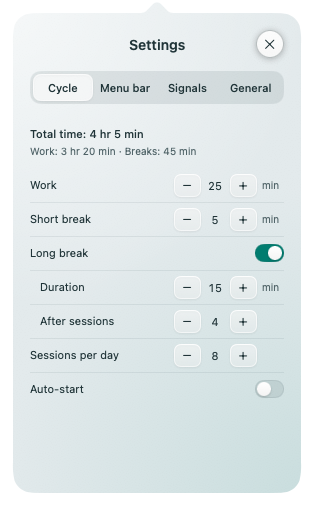
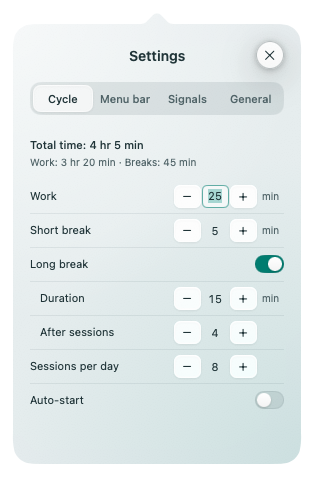
Polish interface colors and refresh compact app screenshots

diff --git a/Sources/PomodoroApp/Views/GlassStyle.swift b/Sources/PomodoroApp/Views/GlassStyle.swift
@@ -3,12 +3,15 @@ import SwiftUI
 
 enum PomodoroStyle {
     static let panelWidth: CGFloat = 288
-    static let panelHeight: CGFloat = 480
+    static let panelHeight: CGFloat = 440
+    static let disabledOpacity = 0.6
     static let accent = adaptive(light: 0x078779, dark: 0x52C2B0)
-    static let accentHighlight = adaptive(light: 0x45A79B, dark: 0x298F83)
-    static let buttonAccent = Color(red: 7 / 255, green: 135 / 255, blue: 121 / 255)
+    // Keep white button labels legible across the entire opaque gradient.
+    static let accentHighlight = adaptive(light: 0x168476, dark: 0x218376)
+    static let buttonAccent = Color(red: 7 / 255, green: 127 / 255, blue: 114 / 255)
     static let ink = adaptive(light: 0x263B40, dark: 0xEDF6F8)
     static let secondary = adaptive(light: 0x5C6E73, dark: 0xB2C4CC)
+    static let error = adaptive(light: 0xA43F3A, dark: 0xF0ACA5)
     static let base = adaptive(light: 0xE8EEF0, dark: 0x24323D)
     static let track = adaptive(light: 0x344E56, dark: 0xE3FAFF).opacity(0.11)
     static let line = adaptive(light: 0x3A535E, dark: 0xE1F6FF).opacity(0.09)
@@ -73,7 +76,7 @@ struct PomodoroButtonStyle: ButtonStyle {
                     .strokeBorder(PomodoroStyle.accent.opacity(isFocused ? 0.8 : 0), lineWidth: 2)
             }
             .contentShape(RoundedRectangle(cornerRadius: radius))
-            .opacity(isEnabled ? 1 : 0.4)
+            .opacity(isEnabled ? 1 : PomodoroStyle.disabledOpacity)
     }
 }
 
@@ -189,7 +192,7 @@ struct GlassSwitchStyle: ToggleStyle {
         }
         .frame(minHeight: 34)
         .foregroundStyle(PomodoroStyle.ink)
-        .opacity(isEnabled ? 1 : 0.4)
+        .opacity(isEnabled ? 1 : PomodoroStyle.disabledOpacity)
         .animation(reduceMotion ? nil : .easeInOut(duration: 0.12), value: configuration.isOn)
     }
 }

diff --git a/Sources/PomodoroApp/Views/SettingsView.swift b/Sources/PomodoroApp/Views/SettingsView.swift
@@ -49,6 +49,7 @@ struct SettingsView: View {
                 Button { selectedTab = tab } label: {
                     Text(t(tab.rawValue))
                         .font(.system(size: 11, weight: .medium))
+                        .foregroundStyle(selectedTab == tab ? PomodoroStyle.ink : PomodoroStyle.secondary)
                         .frame(maxWidth: .infinity)
                         .frame(height: 27)
                         .contentShape(RoundedRectangle(cornerRadius: 8))
@@ -190,7 +191,7 @@ struct SettingsView: View {
 
     @ViewBuilder private var integrationError: some View {
         if let error = model.integrationError {
-            Text(error).font(.caption).foregroundStyle(.red)
+            Text(error).font(.caption).foregroundStyle(PomodoroStyle.error)
                 .fixedSize(horizontal: false, vertical: true)
                 .accessibilityLabel(settings.language.text("Ошибка: \(error)", "Error: \(error)"))
                 .padding(.top, 10)
@@ -331,11 +332,11 @@ private struct IntegerSettingRow: View {
             .fixedSize(horizontal: true, vertical: false)
             Text(unit)
                 .font(.system(size: 10))
-                .foregroundStyle(PomodoroStyle.secondary.opacity(isEnabled ? 1 : 0.4))
+                .foregroundStyle(PomodoroStyle.secondary.opacity(isEnabled ? 1 : PomodoroStyle.disabledOpacity))
                 .frame(width: 22, alignment: .leading)
         }
         .font(.system(size: 11))
-        .foregroundStyle(PomodoroStyle.ink.opacity(isEnabled ? 1 : 0.4))
+        .foregroundStyle(PomodoroStyle.ink.opacity(isEnabled ? 1 : PomodoroStyle.disabledOpacity))
         .frame(minHeight: 34)
         .onAppear { draft = String(value) }
         .onChange(of: value) { if !editing { draft = String(value) } }

diff --git a/Sources/PomodoroApp/Views/TimerView.swift b/Sources/PomodoroApp/Views/TimerView.swift
@@ -49,13 +49,14 @@ struct TimerView: View {
     private var sessions: some View {
         VStack(spacing: 8) {
             HStack {
-                Text(t("Сессии")).foregroundStyle(PomodoroStyle.secondary)
+                Text(t("Сессии"))
                 Spacer(minLength: 8)
                 Text(StatusItemFormatter.formattedProgress(completed: state.completedSessions,
                                                            goal: model.engine.settings.dailyGoal, language: model.engine.settings.language))
                     .monospacedDigit().fontWeight(.medium)
             }
             .font(.system(size: 11))
+            .foregroundStyle(PomodoroStyle.secondary)
             HStack(spacing: 5) {
                 ForEach(0..<model.engine.settings.dailyGoal, id: \.self) { index in
                     RoundedRectangle(cornerRadius: 3)

diff --git a/screenshots/README.md b/screenshots/README.md
@@ -1,0 +1,18 @@
+# README screenshots
+
+Updated on November 4, 2026, from the application sources included in the
+refreshed Sessions 1.0.0 release.
+
+- `timer.png` and `cycle-settings.png` are macOS screenshots of the real
+  `NSPopover` created by the production `StatusBarController`. Only empty
+  transparent margins were cropped; the interface was not resized or redrawn.
+  Both use the compact 288 × 440 pt content layout, English, the light theme,
+  default cycle durations, and isolated sample progress of 3 out of 8 sessions.
+- `menu-bar-full.png` is a native bitmap capture of the real `NSStatusItem`
+  button, composited on a neutral dark background without resizing its text
+  or symbol.
+
+The capture helper uses isolated preferences and a silent notification backend.
+For capture only, it keeps its own popover open and opens Cycle settings
+directly. The user's timer, application settings, and system preferences are
+not changed.

diff --git a/README.md b/README.md
@@ -6,7 +6,7 @@ Pause, resume, reset, or move between phases, and choose manual or automatic tra
 
 <img src="screenshots/menu-bar-full.png" alt="Menu bar with symbol, phase, remaining time, and session progress">
 
-![Timer](screenshots/timer.png)
+![Timer with daily session progress](screenshots/timer.png)
 ![Cycle settings](screenshots/cycle-settings.png)
 
 ## Install
